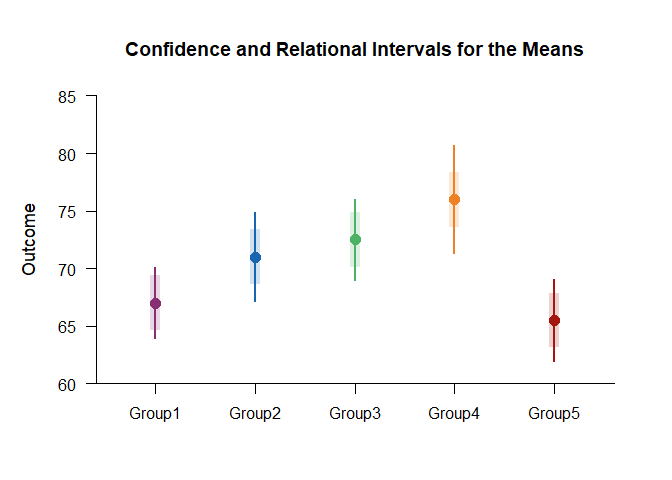
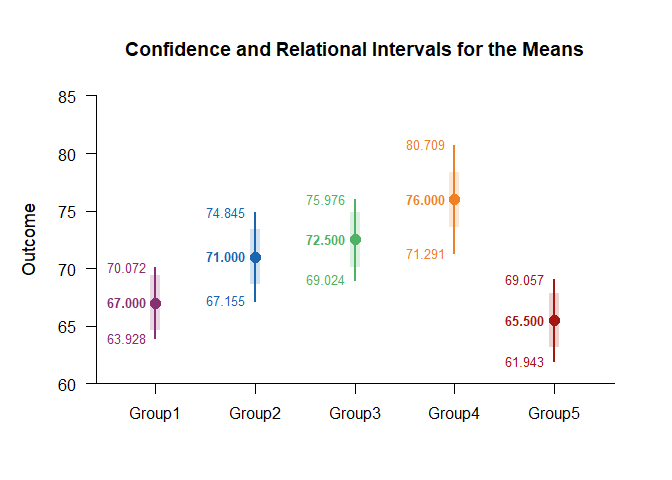
Updated applications

diff --git a/docs/applications/RelationalRepeatedMeasuresDataApplication.md b/docs/applications/RelationalRepeatedMeasuresDataApplication.md
@@ -1,3 +1,25 @@
+---
+title: "Estimation Approach to Statistical Inference"
+author: "Craig A. Wendorf"
+date: "2023-03-20"
+output:
+  html_document:
+    toc: true
+    toc_float: true
+    toc_depth: 4
+    collapse: true
+    theme: cerulean
+    highlight: tango
+    keep_md: TRUE
+vignette: >
+  %\VignetteIndexEntry{Relational Repeated Measures Data Application}
+  %\VignetteEngine{knitr::rmarkdown}
+  %\VignetteEncoding{UTF-8}
+---
+
+
+
+
 
 ## Relational Repeated Measures Data Application
 
@@ -82,7 +104,7 @@ Enhance the plot by adding color.
 
 ```r
 colorTheme=c('#882e72','#1965b0','#4eb265','#ee8026','#a5170e')
-(RepeatedData) |> plotMeansRelational(values=FALSE,col=colorTheme)
+(RepeatedData) |> plotMeansRelational(col=colorTheme)
 ```
 
 ![](figures/Relational-Repeated-RelationalB-1.png)<!-- -->

diff --git a/docs/applications/RelationalOneWayDataApplication.md b/docs/applications/RelationalOneWayDataApplication.md
@@ -1,3 +1,25 @@
+---
+title: "Estimation Approach to Statistical Inference"
+author: "Craig A. Wendorf"
+date: "2023-03-20"
+output:
+  html_document:
+    toc: true
+    toc_float: true
+    toc_depth: 4
+    collapse: true
+    theme: cerulean
+    highlight: tango
+    keep_md: TRUE
+vignette: >
+  %\VignetteIndexEntry{Relational OneWay Data Application}
+  %\VignetteEngine{knitr::rmarkdown}
+  %\VignetteEncoding{UTF-8}
+---
+
+
+
+
 
 ## Relational OneWay Data Application
 
@@ -78,7 +100,7 @@ Enhance the plot by adding color.
 
 ```r
 colorTheme=c('#882e72','#1965b0','#4eb265','#ee8026','#a5170e')
-(Outcome~Factor) |> plotMeansRelational(values=FALSE,col=colorTheme)
+(Outcome~Factor) |> plotMeansRelational(col=colorTheme)
 ```
 
 ![](figures/Relational-OneWay-RelationalB-1.png)<!-- -->
